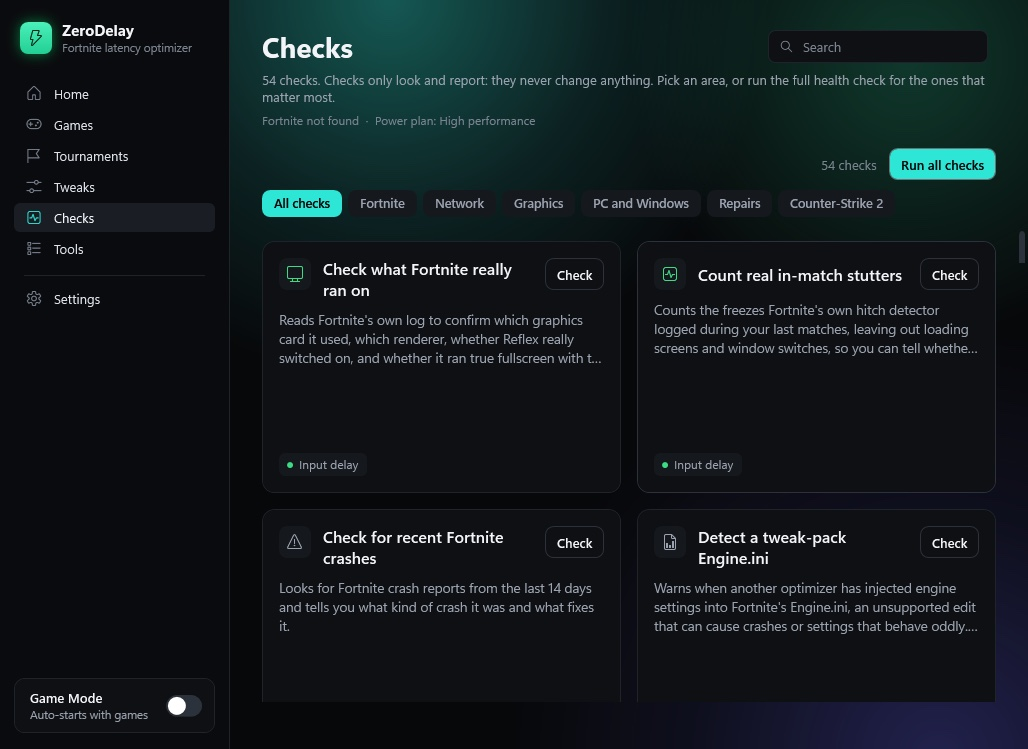
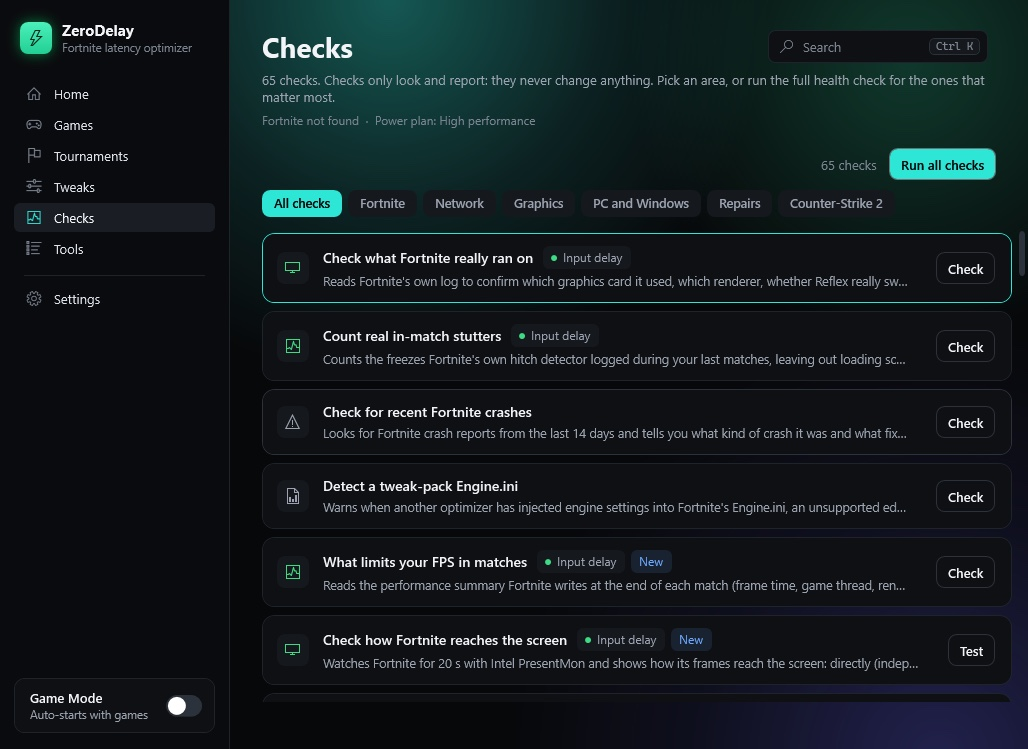
Website: 2.1 text and screenshots rendered on Windows

diff --git a/docs/index.html b/docs/index.html
@@ -38,7 +38,7 @@
 
 <main id="top">
   <section class="hero">
-    <p class="eyebrow"><span>New: version 2.0</span><span>Free</span><span>Open source</span><span>Windows 10 and 11</span></p>
+    <p class="eyebrow"><span>New: version 2.1</span><span>Free</span><span>Open source</span><span>Windows 10 and 11</span></p>
     <h1>Less input delay.<br><em>No placebo.</em></h1>
     <p class="lede">ZeroDelay tunes Windows, your graphics driver and your games for lower input delay, steadier frames and cleaner ping. Every change says what it does, when not to use it, and comes back with one click.</p>
     <div class="cta">
@@ -74,7 +74,7 @@
     <div class="copy">
       <p class="kicker">Home</p>
       <h2>Your results first</h2>
-      <p>The first thing you see is what your last matches were really like: ping, packet loss, FPS and stutters, read from your own games. Below it, how much of the recommended setup is on, and live load for your processor, memory, graphics card, disk and internet.</p>
+      <p>The first thing you see is your last match: FPS, 1% lows, ping and stutters compared with your usual, and when it stuttered. Below it, how much of the recommended setup is on, presets, and your recent changes with Undo.</p>
     </div>
     <figure class="shot glass"><img loading="lazy" src="img/home.jpg" width="1028" height="749" alt="Home page with match results and live tiles"></figure>
   </section>
@@ -109,8 +109,8 @@
   <section class="feature reveal">
     <div class="copy">
       <p class="kicker">Tweaks</p>
-      <h2>550 tweaks and checks, shown a few at a time</h2>
-      <p>You start with the recommended ones for your PC. Filters show input delay and ping, what is switched on, what is new, or one area at a time: Fortnite, graphics, network, power and more. Every card has a plain title and a line on when not to use it.</p>
+      <h2>590 tweaks and checks, every one explained</h2>
+      <p>One list grouped by area, each tweak marked Safe, Moderate or Advanced and saying what is true now. Click one to see exactly what it changes in Windows and when not to use it. Switch several, review them, apply them together and undo the batch with one click. Ctrl+K finds any tweak, check, tool, game or Windows setting.</p>
     </div>
     <figure class="shot glass"><img loading="lazy" src="img/tweaks.jpg" width="1028" height="749" alt="Tweaks page showing the recommended tweaks with filters by area"></figure>
   </section>
@@ -119,7 +119,7 @@
     <div class="copy">
       <p class="kicker">Checks</p>
       <h2>Find what is really holding you back</h2>
-      <p>Checks only look and report. What limited your FPS last match, whether your memory runs at its rated speed, whether your graphics card has all its PCIe lanes, where your matches were hosted, and leftovers from other tweak packs that break anti-cheat.</p>
+      <p>Checks only look and report. What limited your FPS last match, which file keeps crashing your games, blue screens and driver resets, disk errors, Intel 13th/14th gen microcode, Secure Boot certificates for anti-cheat, memory speed, PCIe lanes, and leftovers from other tweak packs.</p>
     </div>
     <figure class="shot glass"><img loading="lazy" src="img/checks.jpg" width="1028" height="749" alt="Checks page"></figure>
   </section>
